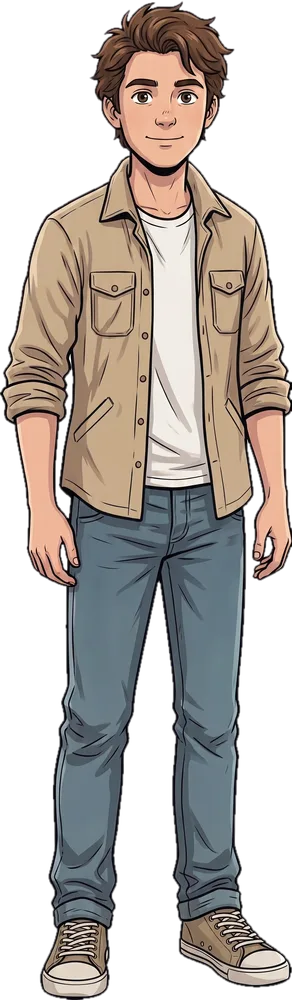
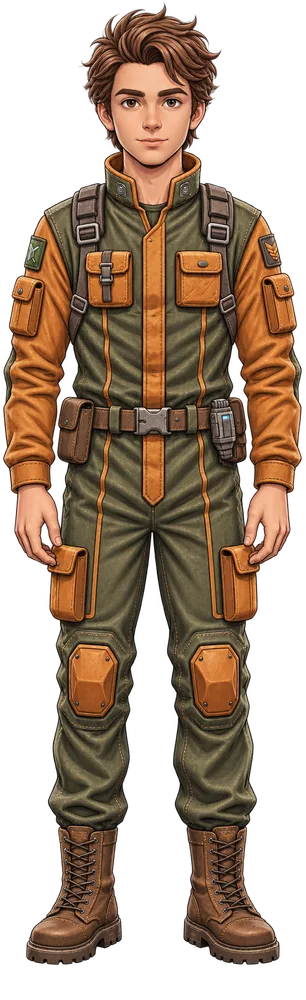
feat(landing): новая фигура Алана в полный рост

diff --git a/tools/make_fullbody.py b/tools/make_fullbody.py
@@ -8,7 +8,7 @@ from PIL import Image, ImageFilter
 D = sys.argv[1]
 B = 'C:/Users/ASUS/Pictures/Курс по тестированию/Книга/'
 SRC = {
-    'alan':      'Алан Климов/Книга 1/Gemini_Generated_Image_9mn9wm9mn9wm9mn9.jpg',
+    'alan':      'Алан Климов/Юноша в зелёно-оранжевом костюме.png',
     'okulus':    'Gemini_Generated_Image_7xcbij7xcbij7xcb.png',
     'yulia':     'Юля Климова/Gemini_Generated_Image_4i6eog4i6eog4i6e.png',
     'vadim':     'Вадим Северов/Книга 1/Gemini_Generated_Image_vt90e3vt90e3vt90-removebg-preview.png',
